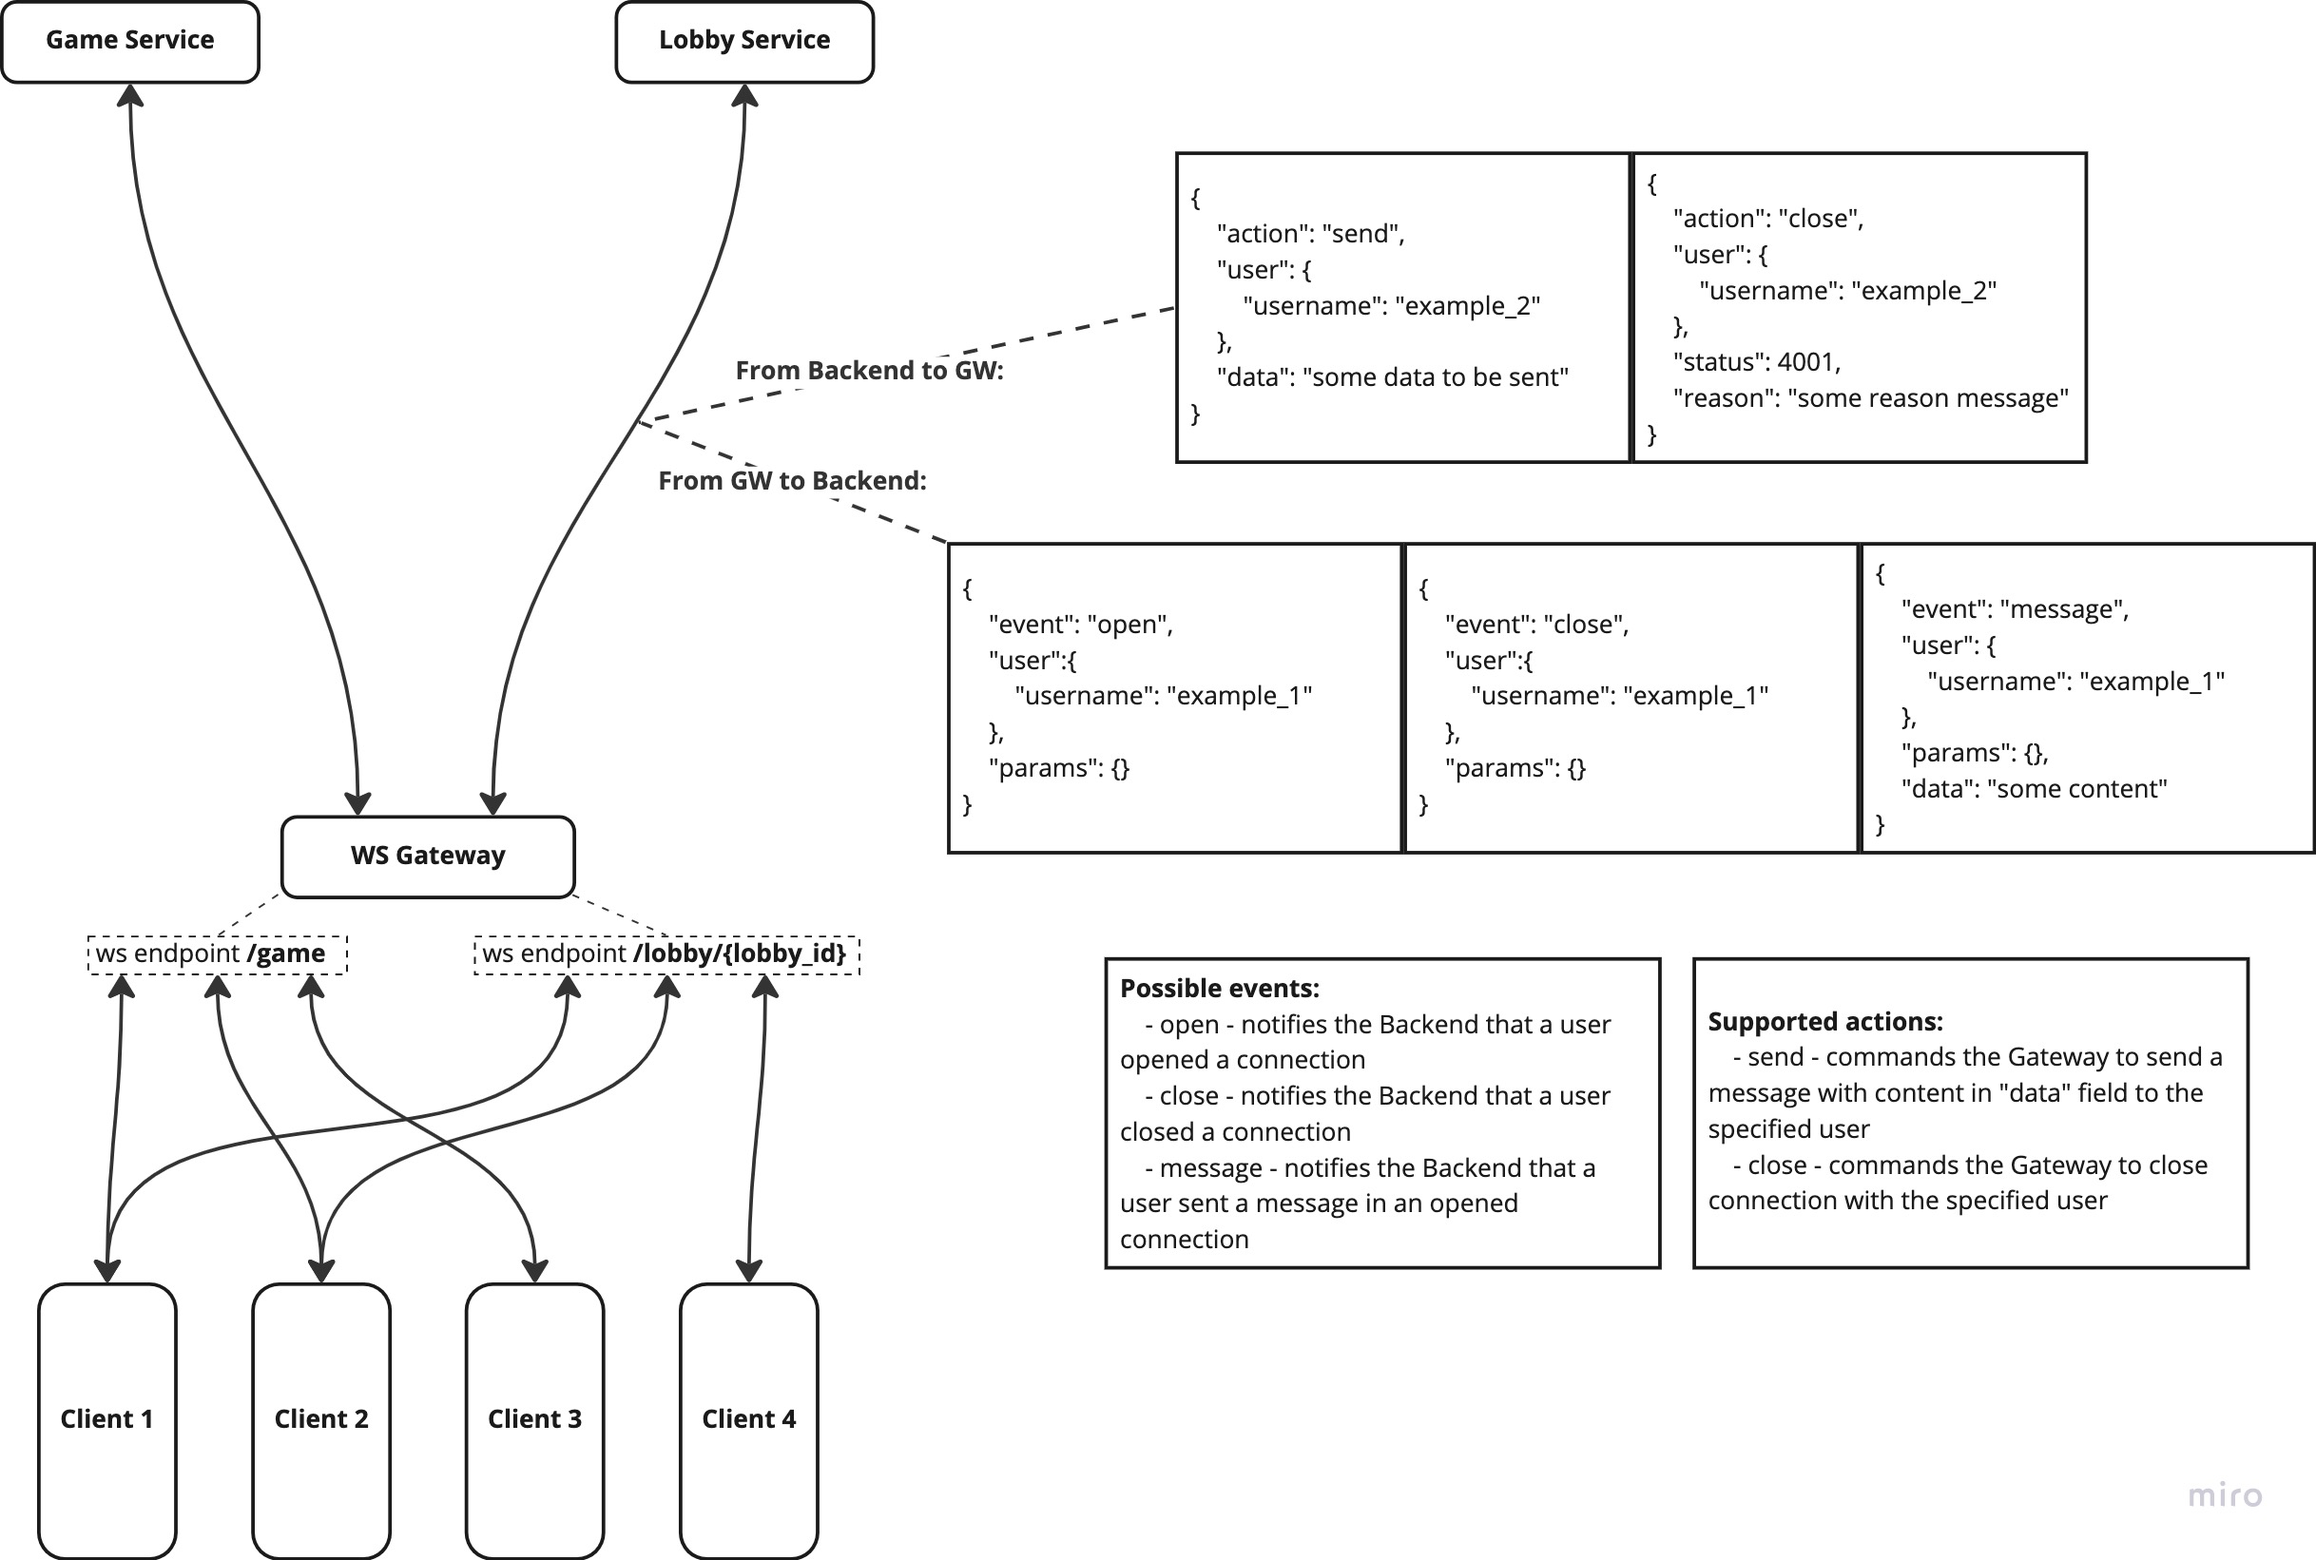
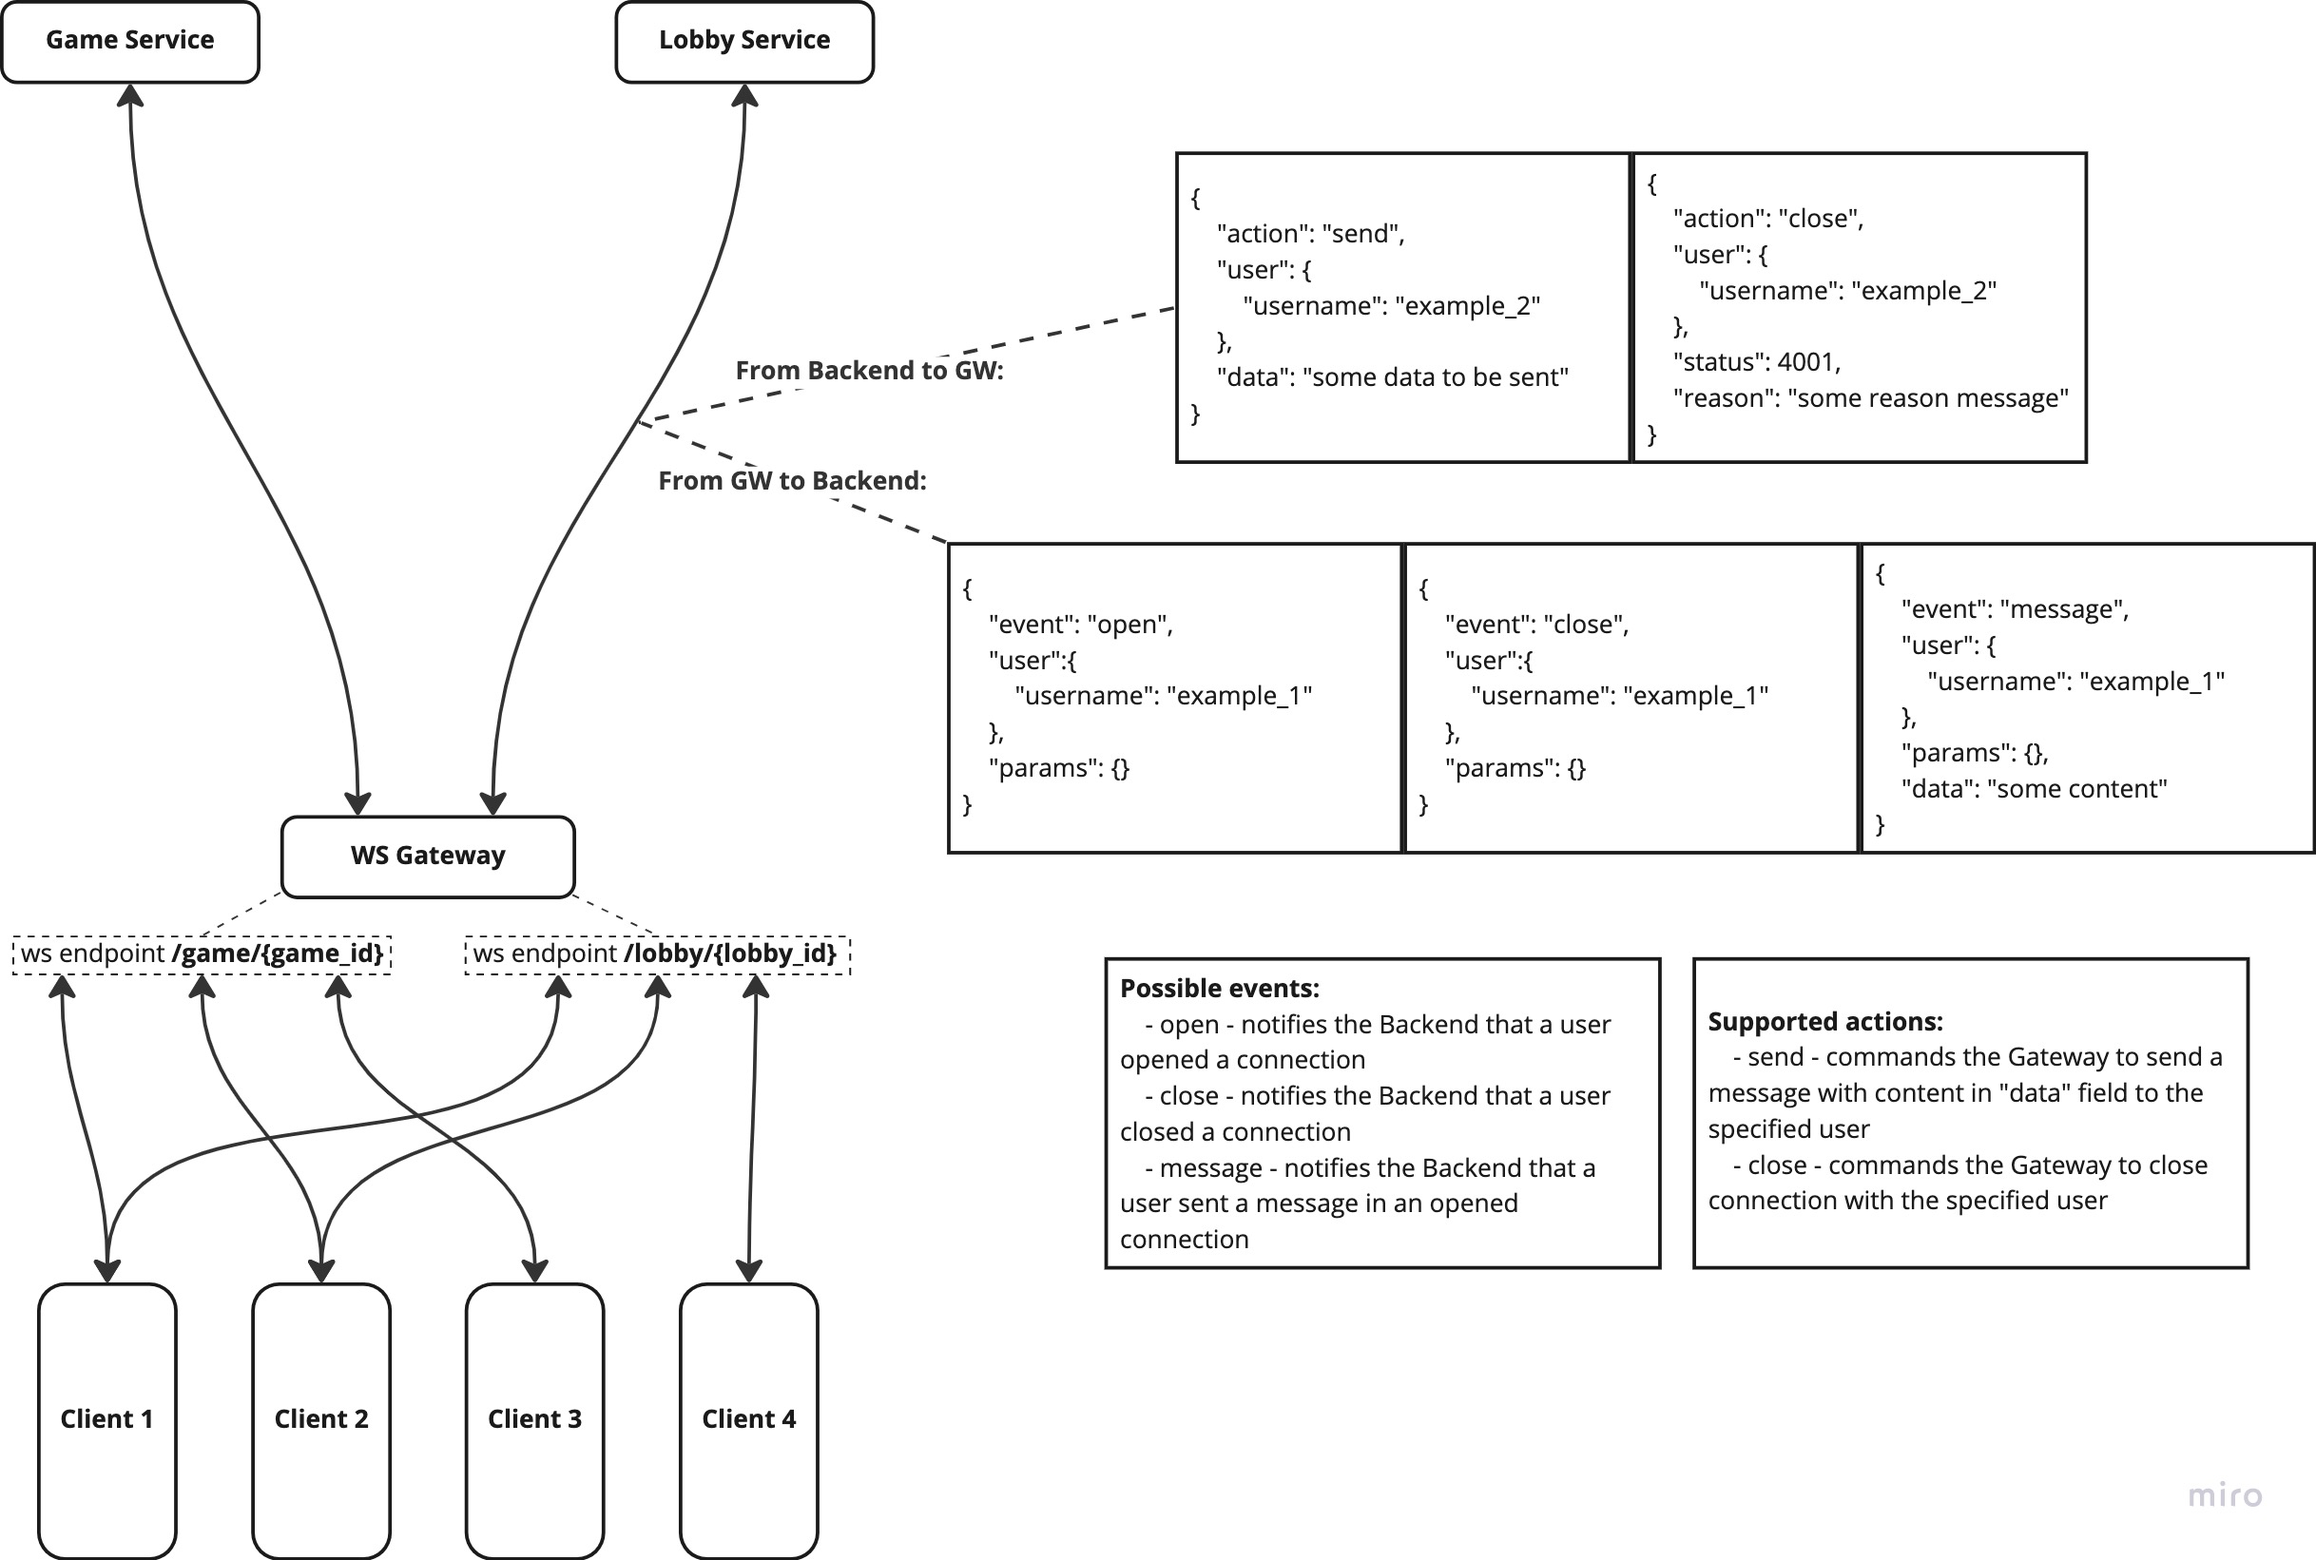
fix: added gw and lobby descriptions

diff --git a/services/gateway_ws/README.md b/services/gateway_ws/README.md
@@ -3,11 +3,53 @@
 The original plan was to have a centralized entrypoint to the backend. And as the gateway solution [KrakenD](https://www.krakend.io/docs/overview/) was used. <br>
 Also look [here](../gateway)
 
-However, after the KrakenD was already in use and configured for a host of existing http endpoints, came the time to implement some websocket endpoints. ~~It is at this moment that we knew - we fucked up~~ At this point we realized, that KrakenD has websocket support only in enterprise edition, which we did not intent to get. That's why, at least for now, we ended up with 2 separate gateways: one already configured for http, and this one, custom wrote in JS, for ws connections.
+However, after the KrakenD was already in use and configured for a host of existing http endpoints, came the time to implement some websocket endpoints. ~~It is at this moment that we knew - we fucked up~~ At this point we realized, that KrakenD has websocket support only in enterprise edition, which we did not intent to get. That's why (at least for now) we ended up with 2 separate gateways: one already configured for http, and this one, custom wrote in JS, for ws connections.
 
 ## Key concepts and core assumptions
-todo: add desc later
+### Connection with backend
+Websocket connections are rather pricy in terms of resources. That's why instead of creating a new connection with the backend service for each new client, the gateway creates only one connection with each service during startup. Within this single connection the gateway talks to the specific backend service in a certain language to let the backend know what happened and to which client, and also expects to receive specific messages from the backend with instructions on what to do with which cliend. More on that later.
+
+### Limitations
+Any given client will only need (and be able) to use a single instance of backend functionality at a time. For instance: a client won't be able to join several lobbies simultaneously or participate in several games simultaneously.
+
+Only one token bearer may simultaniously be connected to any given part of functionality. For instance: a user (being authorized as such) will not be able to play the same game from 2 (or more) different devices.<br>
+This limitation is somewhat arbitrary, but allows to simplify the implementation.
+
+Therefore the gateway can identify every client connection by:
+- username from the jwt passed by the client
+- part of functionality the cllient wants to use - in our case it is either something related to lobby (joining, chatting, etc.) or something related to actual game (making moves etc.) - which is very convenient, as these are provided by 2 backend services.
 
 ## Implementation
-todo: write something here as well
-![WS Gateway communication](../../misc/ws_gateway.jpeg)
+After considering everything explained in the previous chapter the following concept emerges:
+![WS Gateway architecture](../../misc/ws_gateway.jpeg)
+Takeaways:
+- gateway keeps one WS connection at all times to any backend service
+- gateway provides one WS endpoint for each part of functionality (de facto for each backend service)
+- depending on the actions of clients on those endpoints, the gateway propagates messages to the corresponding backend
+- messages sent between the gateway and backends have a specified format (language, if you wish)
+
+### The language
+#### Key concept
+The gateway by itself does not know what to do with each client - this is the responsibility of backends.<br>
+The gateway <u>informs</u> the backend about what happens to its corresponding ws endpoint. In other words the gateway sends <u>events</u> to a backend.<br>
+Depending on what happens, a backend <u>commands</u> the gateway to do something with a specific client. In other words a backend sends <u>actions</u> to the gateway.
+
+#### How it works
+All of the messages sent within the connections from gateway to backends are expected to be a JSON string.
+
+All messages that are sent both sides are required to have a 'user' field. It contains the information about the authorized user using a gateway ws endpoint.
+
+Messages sent from the gateway to a backend always have an 'event' field that specifies *what* happened.<br>
+There are currently 3 options:
+- open - a client opened a ws connection to an endpoint
+- message - a client sent a message the opened connection
+- close - a client closed the connection they opened earlier
+
+Messages sent from a backend to the gateway are required to have an 'action' field.<br>
+There are 2 options:
+- send - commands the gateway to send a specified messsage back to the client
+- close - commands the gateway to close the client connection with the specified code and reason
+
+### Authorization
+Clients are expected to send their jwt token within the Authorization header when they attempt to establish a connection to any ws endpoint. It works the same way as the authorization on the http endpoints.<br>
+If a client fails to send a token or sends an invalid one, the handshake fails with 401 code and the connection is not established at all.

diff --git a/services/lobby/README.md b/services/lobby/README.md
@@ -1,24 +1,75 @@
-### Requesting backend example:
-POST<br>
-\<domain\>:3000/lobby/create<br>
-*in case you run the backend locally \<domain\> will be 'localhost'*<br>
-<br>
-Headers:<br>
-Content-Type: application/json<br>
-<br>
-Body:
+# Lobby Service
+## General information
+This service is responsible for all the functionality related to lobbies. Creating new lobbies, requesting existing ones, joining, chatting, etc.<br>
+All of the functionality may be accessed via either http requests or within a websocket connection.
+
+## HTTP
+Functions available over http include:
+- creating a lobby
+- deleteng a lobby
+- getting existing lobbies
+
+For more details on those please visit [Swagger-UI](../swagger/).
+
+## WebSocket
+Functions available over websocket include:
+- joining a lobby
+- leaving a lobby
+- chatting (within a lobby)
+- setting ready check (within a lobby)
+
+### Joining a lobby
+To join a lobby you need to open a websocket connection to:<br>
+*ws://\<domain\>:\<port\>/lobby/{lobby_id}*
+- port here is the port of the [WS Gateway](../gateway_ws/).
+
+Example:<br>
+ws://localhost:8082/lobby/63922321eafc30d85d48aa48
+
+#### Authorization
+Joining a lobby requires autorization token. Authorization works the same way as with the http endpoints. I.e. you need to pass your jwt token as a Authorization header when joining. If you fail to do so, the handshake will fail with 401 code.
+
+#### Important notes 
+Only one connection per bearer is allowed at the same time.<br>
+Meaning:
+- you may not use the same token to join several lobbies at once
+- you may not use the same token to establish several ws connections to the same lobby
+
+Trying to do so will result in closing the previous connection with 1008 code.
+
+#### Connection closing
+The backend may close the ws connection opened by the client. The possible cases are:
+- lobby with provided id does not exist - backend will close the connection with status 4000 
+- requested lobby is already full - backend will close the connection with status 4001
+
+These 2 close cases happen immediately after the client opens the connection
+
+### Leaving a lobby
+Simply close the connection that was previously opened.
+
+### Chatting
+In order to send a message to lobby chat you need to join a lobby first.<br>
+Then to the opened connection send the following message as a JSON string:
 ```json
 {
-    "name": "qwe"
+    "action": "chat",
+    "data": "Hello, I'm Dude"
 }
 ```
-Response should be:<br>
-200
+
+If there are other users in the same lobby as you are, they will receive the following message:
 ```json
 {
-    "name": "qwe",
-    "players": [],
-    "_id": "636f915e2b329b4bcb9ba489",
-    "__v": 0
+    "event": "chat",
+    "from": {
+        "username": "the_dude_lebowski"
+    },
+    "data": "Hello, I'm Dude"
 }
 ```
+- event field contains the type of event that occured - 'chat' in this case
+- from field contains the information about a user event originated from (in this case its the sender of the chat message)
+- data field contains the message itself
+
+### Ready checking
+*not implemented yet*
